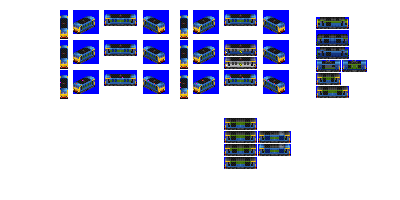
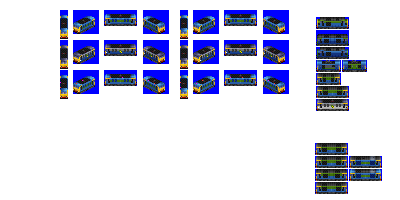
Change: sprites complete for Flanders Storm alternative livery

diff --git a/src/vehicles/flanders_storm.py b/src/vehicles/flanders_storm.py
@@ -16,7 +16,7 @@ def main(roster_id):
                             pantograph_type='z-shaped-double',
                             intro_date_offset=-3,  # introduce earlier than gen epoch by design
                             alternative_cc_livery='RAILFREIGHT_TRIPLE_GREY',
-                            sprites_complete=False)
+                            sprites_complete=True)
 
     consist.add_unit(type=ElectricEngineUnit,
                      weight=120,
